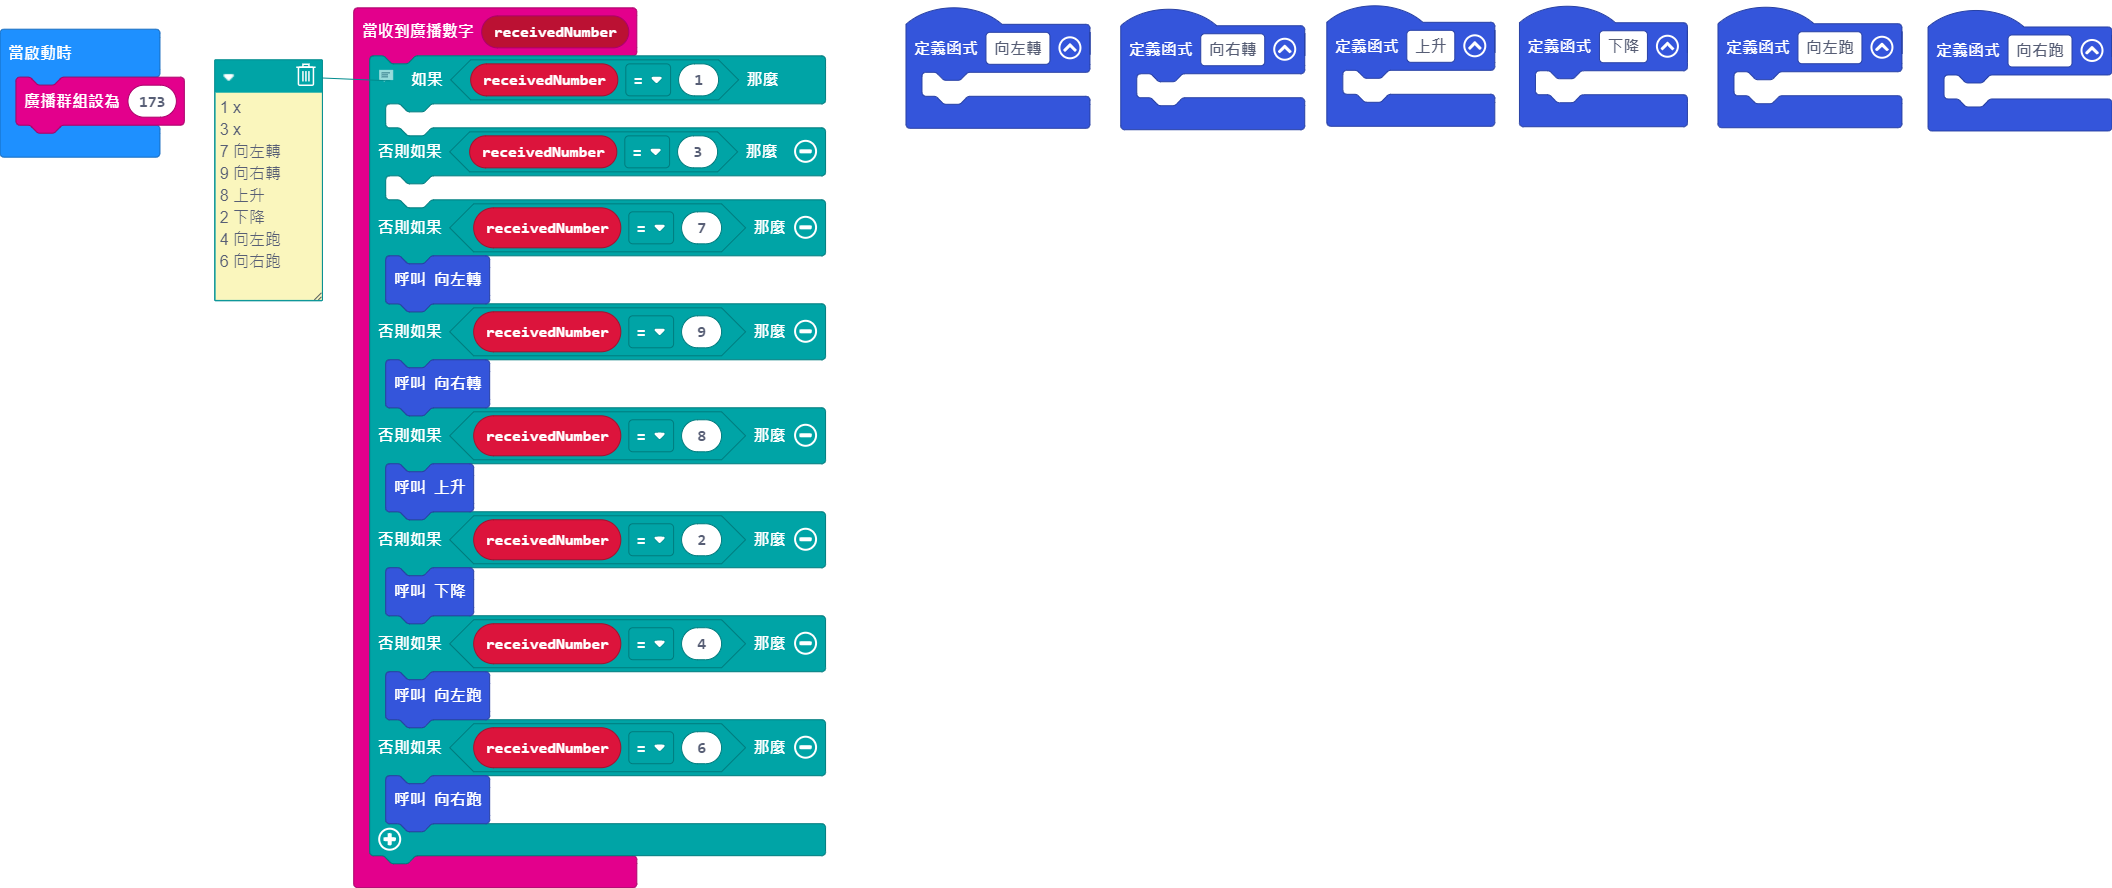
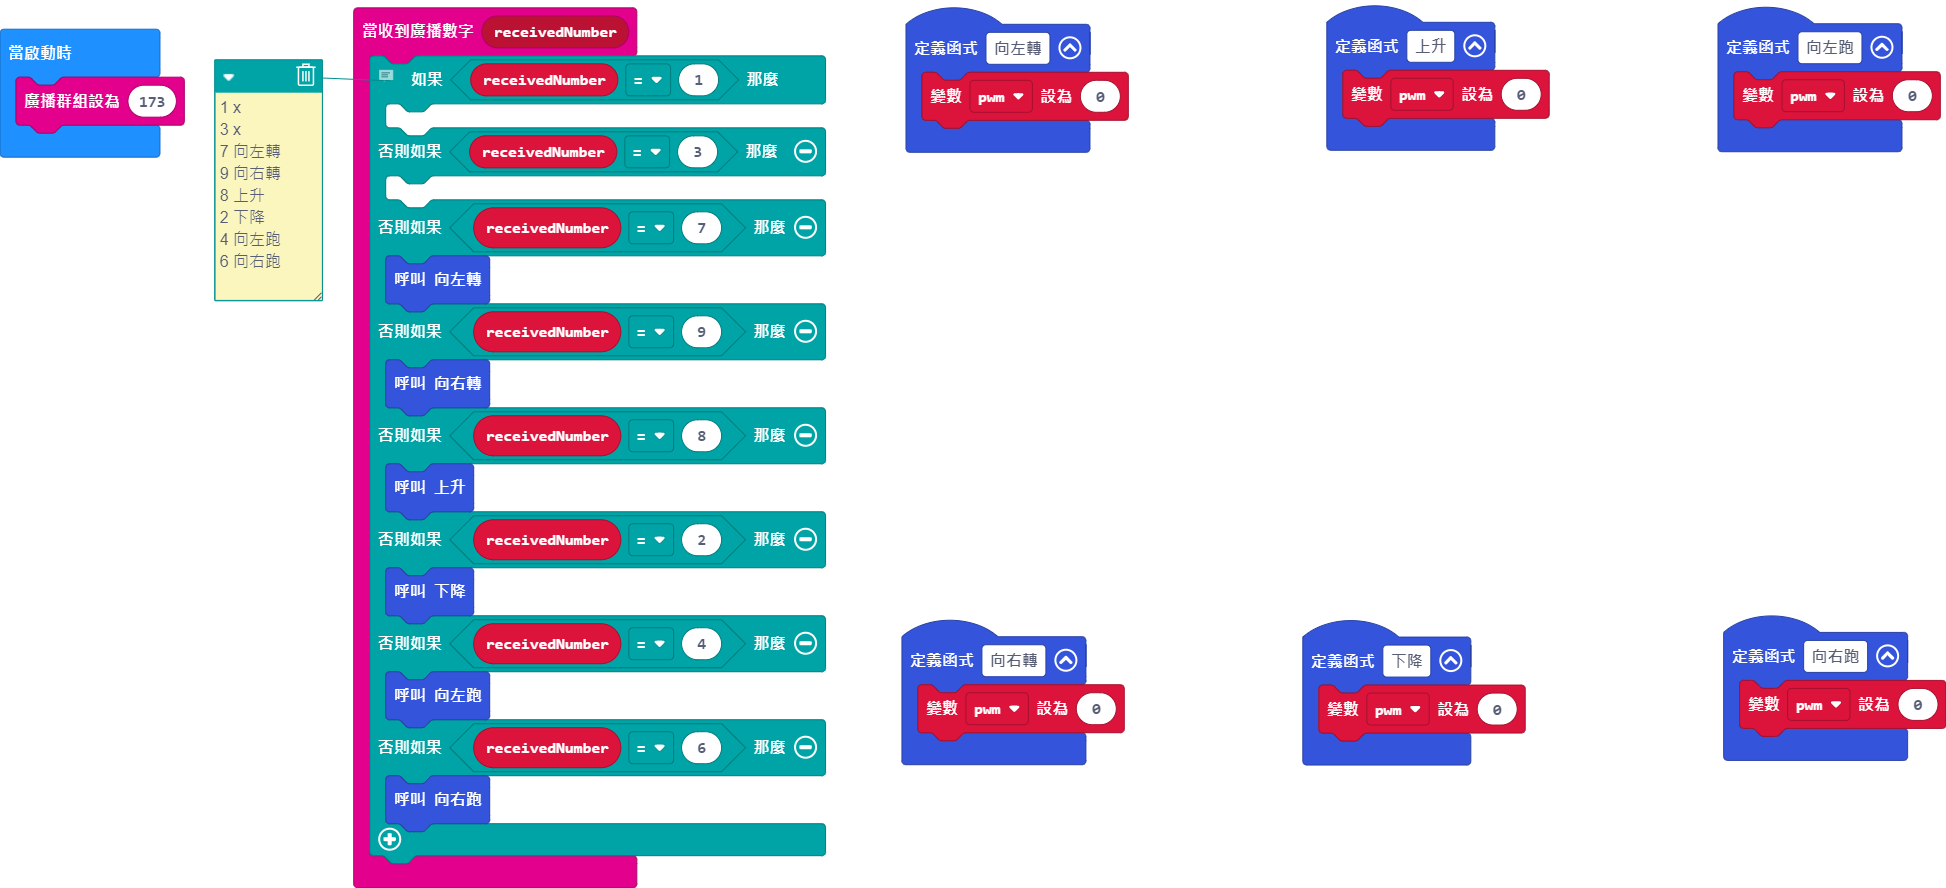
更新 main.blocks, main.ts

diff --git a/main.ts b/main.ts
@@ -1,5 +1,5 @@
 function 向右轉 () {
-	
+    pwm = 0
 }
 radio.onReceivedNumber(function (receivedNumber) {
     // 1 x
@@ -29,18 +29,19 @@ radio.onReceivedNumber(function (receivedNumber) {
     }
 })
 function 向左轉 () {
-	
+    pwm = 0
 }
 function 向左跑 () {
-	
+    pwm = 0
 }
 function 上升 () {
-	
+    pwm = 0
 }
 function 向右跑 () {
-	
+    pwm = 0
 }
 function 下降 () {
-	
+    pwm = 0
 }
+let pwm = 0
 radio.setGroup(173)
